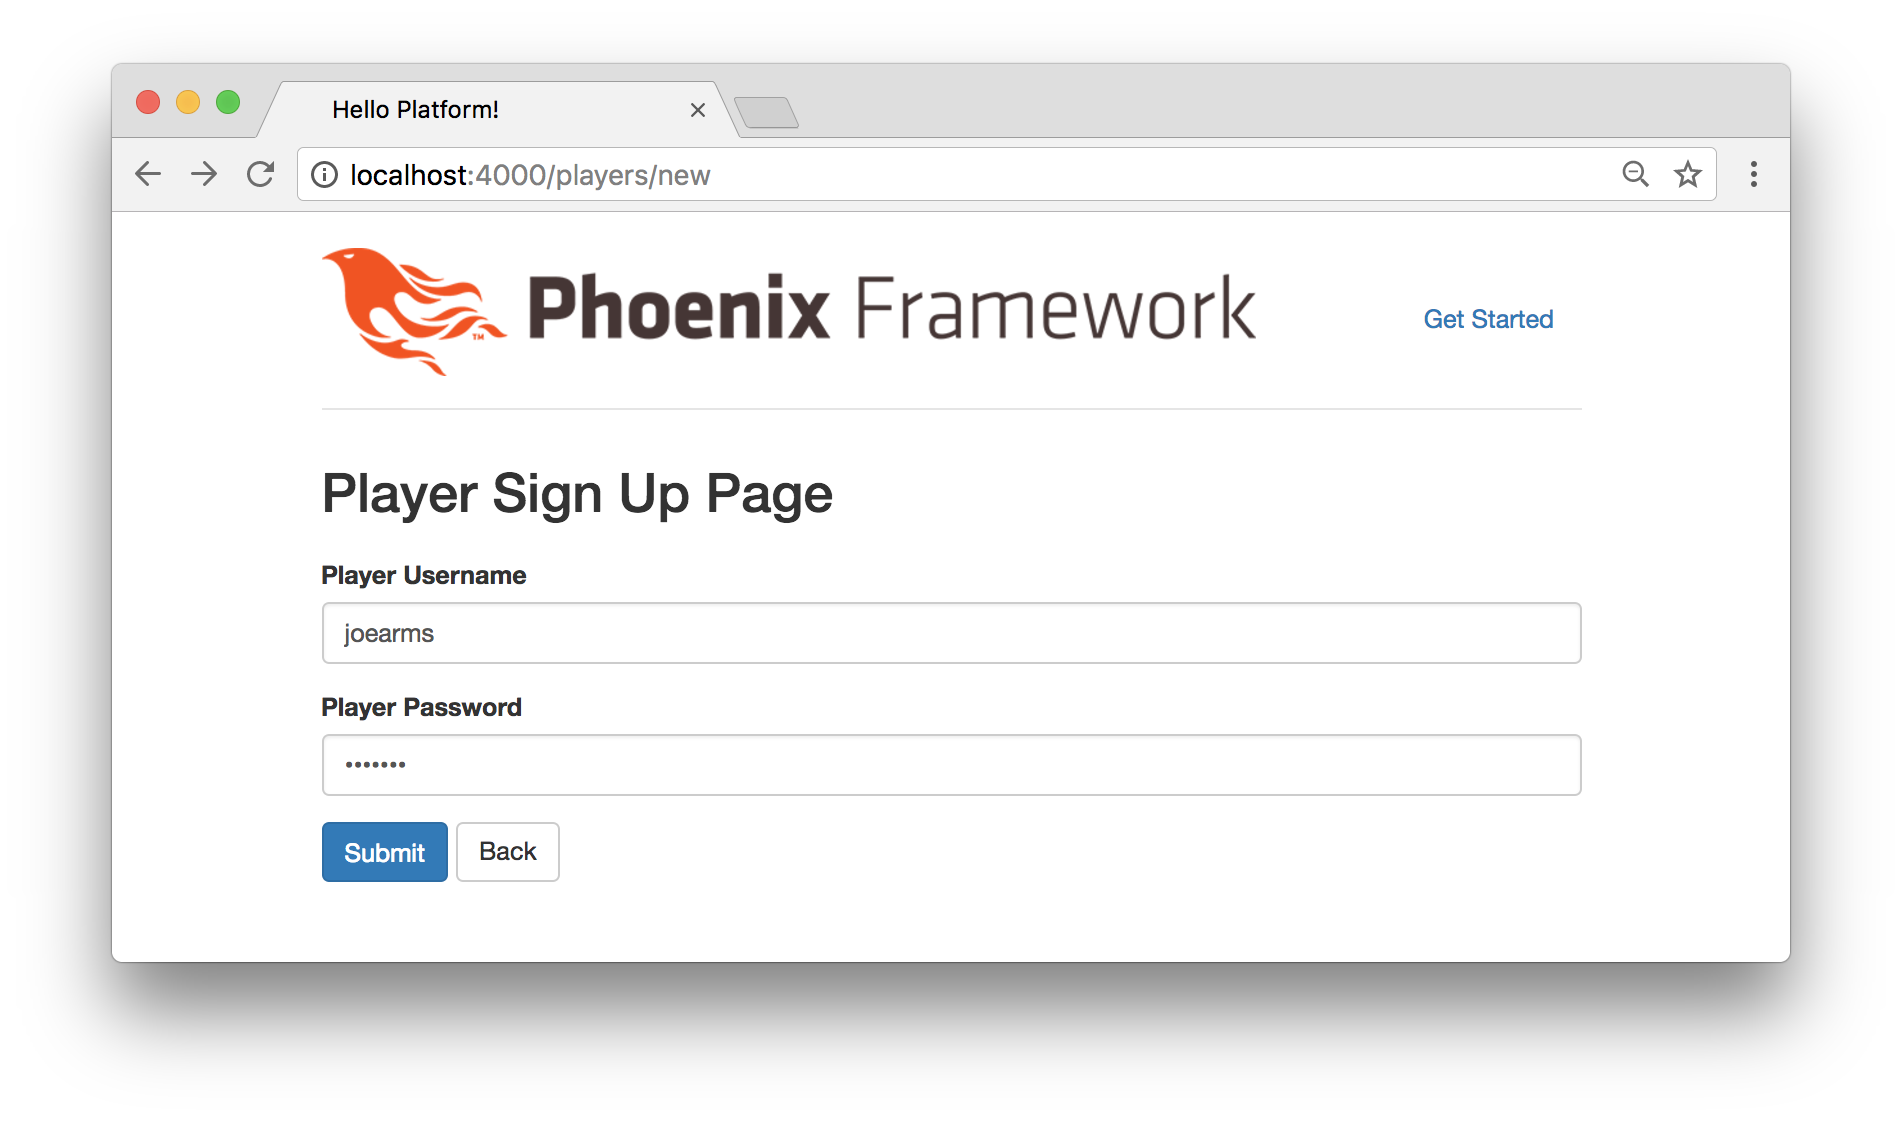
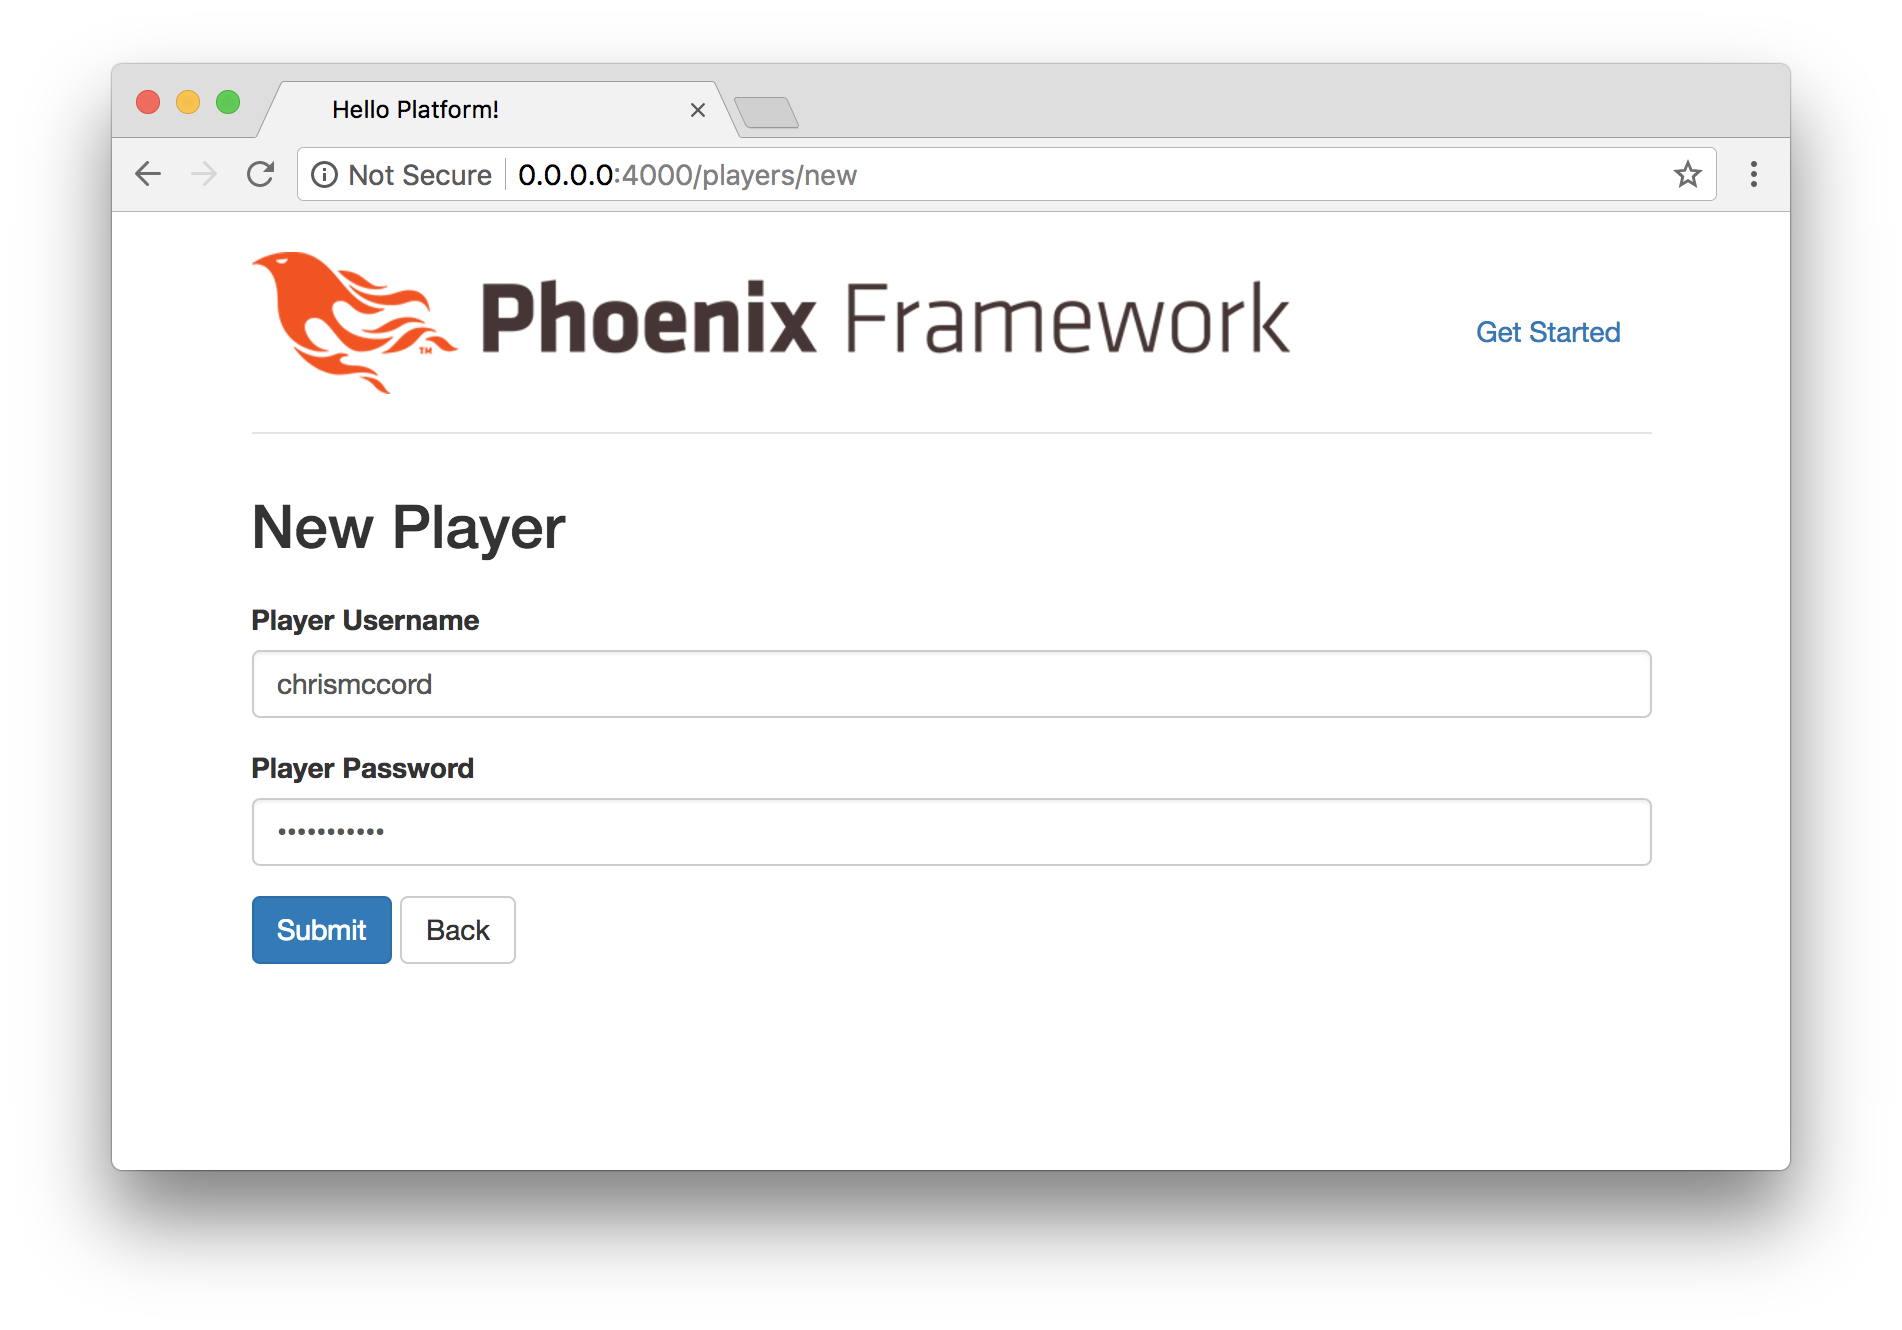
Writing player auth content, updating examples

diff --git a/manuscript/phoenix_authentication.md b/manuscript/phoenix_authentication.md
@@ -393,19 +393,19 @@ the amount of time our tests took to run (from 4.4 seconds to 0.2 seconds).
 
 Players are currently able to create new accounts at
 `http://0.0.0.0:4000/players/new`. But we'll want to add features so that users
-can log in and log out.
+can sign in and sign out.
 
 ![Player Sign Up Page](images/phoenix_sign_up/phoenix_updated_sign_up.png)
 
 Let's make a new controller called `PlayerAuthController`. Create a
-`lib/platform/web/controllers/player_auth_controller.ex` file, and add the
+`lib/platform_web/controllers/player_auth_controller.ex` file, and add the
 following content:
 
 ```elixir
-defmodule Platform.Web.PlayerAuthController do
+defmodule PlatformWeb.PlayerAuthController do
   import Plug.Conn
 
-  alias Platform.Accounts
+  alias Platform.Accounts.Player
 
   def init(opts) do
     Keyword.fetch!(opts, :repo)
@@ -413,26 +413,26 @@ defmodule Platform.Web.PlayerAuthController do
 
   def call(conn, repo) do
     player_id = get_session(conn, :player_id)
-    player = player_id && repo.get(Accounts.Player, player_id)
+    player = player_id && repo.get(Player, player_id)
     assign(conn, :current_user, player)
   end
 end
 ```
 
-This will allow us to collect information about the player's session, and
-assign it to `:current_user` so we can refer to that when handling our
+This will allow us to collect information about the current player's session
+and assign it to `:current_user` so we can refer to that when handling our
 authentication features.
 
 ## Router
 
 Remembering back to when we set up our `PlayerController` in the Phoenix
 router, we used the default browser pipeline. If we open the
-`lib/platform/web/router.ex` file, we'll see that there are quite a few
+`lib/platform_web/router.ex` file, we'll see that there are quite a few
 `plug`s at the top:
 
 ```elixir
-defmodule Platform.Web.Router do
-  use Platform.Web, :router
+defmodule PlatformWeb.Router do
+  use PlatformWeb, :router
 
   pipeline :browser do
     plug :accepts, ["html"]
@@ -446,19 +446,12 @@ defmodule Platform.Web.Router do
     plug :accepts, ["json"]
   end
 
-  scope "/", Platform.Web do
-    pipe_through :browser # Use the default browser stack
-
-    get "/", PageController, :index
-    resources "/players", PlayerController
-  end
-
   # ...
 end
 ```
 
-At the bottom of the `pipeline :browser` block, add our new authentication
-plug:
+At the bottom of the `pipeline :browser` block, let's add our new
+authentication plug:
 
 ```elixir
 pipeline :browser do
@@ -467,51 +460,32 @@ pipeline :browser do
   plug :fetch_flash
   plug :protect_from_forgery
   plug :put_secure_browser_headers
-  plug Platform.Web.PlayerAuthController, repo: Platform.Repo
+  plug PlatformWeb.PlayerAuthController, repo: Platform.Repo
 end
 ```
 
-This plug is going to allow us to restrict access to certain pages. Originally,
-users were being taken to our index page from the `PageController` when they
-accessed the default route (`/`). But we're going to turn that page into our
-Elm front-end application, and we'll require users to log in before they
-access it.
+This plug is going to allow us to restrict access to certain pages. Let's
+update our application so users will be redirected to the **New Player** page
+at `http://0.0.0.0:4000/players/new` if they haven't already signed in.
 
-For now, let's direct users to the **Player Sign Up Page** at `/players/new`
-when they access the default route, and we'll restrict access to the
-`PageController` index page, which we'll call `/elm` for now.
+Currently, when we access `http://0.0.0.0:4000` in the browser, we see the
+index page from our `PageController`. In the upcoming chapters, we'll be
+turning this into our Elm front-end application.
 
-Here are the updates we'll need to make to our browser scope:
+![Home Page](images/diving_in/updated_home_page.png)
 
-```elixir
-scope "/", Platform.Web do
-  pipe_through :browser
-
-  get "/", PlayerController, :new
-  get "/elm", PageController, :index
-  resources "/players", PlayerController
-end
-```
-
-When we access `http://0.0.0.0:4000` now, we'll see the
-**Player Sign Up Page**.
-
-![Player Sign Up Page at Default Route](images/phoenix_authentication/new_default_route.png)
-
-And we can access `http://0.0.0.0:4000/elm` to see our original home page,
-which we'll later turn into our Elm front-end application.
-
-![Original Home Page at /elm Route](images/phoenix_authentication/new_elm_route.png)
+We're going to use our new `PlayerAuthController` to redirect users to the
+**New Player** page before they can view our home page.
 
 ## Authenticate Function
 
 Currently, users are able to navigate to all the pages within our application.
-We want to ensure that players are logged in before they access our Elm
+We want to ensure that players are signed in before they access our Elm
 application and start playing games.
 
 At the bottom of our `PageController`, let's add an `authenticate/2`
-function. Open up the `lib/platform/web/controllers/page_controller.ex` file
-and add the following at the bottom (beneath the `index/2` function):
+function. Open up the `lib/platform_web/controllers/page_controller.ex` file
+and add the following beneath the `index/2` function:
 
 ```elixir
 defp authenticate(conn, _opts) do
@@ -519,7 +493,7 @@ defp authenticate(conn, _opts) do
     conn
   else
     conn
-    |> put_flash(:error, "You must be logged in to access that page.")
+    |> put_flash(:error, "You must be signed in to access that page.")
     |> redirect(to: player_path(conn, :new))
     |> halt()
   end
@@ -530,8 +504,8 @@ Since we assigned the current player's session to be the `current_user` inside
 our `PlayerAuthController`, we can use that to determine whether a visitor to
 our site is signed in. If they are, we'll just return the connection and allow
 them to continue, otherwise if they're attempting to access a restricted
-resource, we'll display a message and redirect them back to the
-**New Player Page**.
+resource, we'll display a message and redirect them back to the **New Player**
+page.
 
 In the same file, we'll use the `authenticate/2` function that we just created
 to determine whether or not players should be able to render the
@@ -546,61 +520,44 @@ plug :authenticate when action in [:index]
 ## Manual Testing
 
 If you're wondering if the updates above broke our tests, you're right. We
-usually run our test suite with `mix test`, but this time let's fire up our
-Phoenix server and manually test things out in the browser.
-
-Start up the Phoenix server with `mix phx.server` and try going to the
-`PageController` index page at `http://0.0.0.0:4000/elm`:
+usually run our test suite with `mix test`, but this time let's manually test
+things out in the browser. Open up your browser and try visiting the
+`PageController` index page at `http://0.0.0.0:4000`:
 
 ![Restricted Page Alert](images/phoenix_authentication/restricted_page.png)
 
-This is great, it redirects us back to the **Player Sign Up Page** because we
-managed to restrict access to the `/elm` page. And we see the flash alert that
-we wrote in the `authenticate/2` function at the bottom of the
-`PageController`:
+It looks like our changes worked, because the application redirected us back to
+the **New Player** page. We managed to restrict access to index page, and we
+see the flash alert ("You must be signed in to access that page.") that we
+wrote in the `authenticate/2` function at the bottom of the `PageController`.
 
-> You must be logged in to access that page.
+## Fixing Our Tests
 
-## Fixing the Build
-
-Let's push a quick and dirty fix for our tests. If we push our new features
-as-is, they'll break the CI build. We could take this as an opportunity to
-write more in-depth tests for our application, but for now we're still
-figuring out where we want to put everything. We won't go too deep into writing
-tests yet, but we still want to ensure that our application is always
-functioning, and keeping our CI build green is a great way to do that.
-
-Open the `test/web/controllers/page_controller_test.exs` file and replace it
+Let's push a quick fix for our tests. Open the `test/platform_web/controllers/page_controller_test.exs` file and replace it
 with the following code that tests our default route and the redirect that
 we created:
 
 ```elixir
-defmodule Platform.Web.PageControllerTest do
-  use Platform.Web.ConnCase
+defmodule PlatformWeb.PageControllerTest do
+  use PlatformWeb.ConnCase
 
-  test "GET /", %{conn: conn} do
+  test "redirects unauthenticated users away from index page", %{conn: conn} do
     conn = get conn, "/"
-    assert html_response(conn, 200) =~ "Player Sign Up"
-  end
-
-  test "redirects unauthenticated users for index page", %{conn: conn} do
-    conn = get conn, page_path(conn, :index)
     assert html_response(conn, 302) =~ "redirect"
   end
 end
 ```
 
-Go ahead and run the `mix test` command again and we should be all set with
-passing tests that give us confidence to keep adding features and moving
-forward.
+Go ahead and run the `mix test` command again, and we should be all set with
+passing tests that give us confidence to keep adding features.
 
-## Logging In
+## Signing In
 
-So how can we allow users to log in to their newly created accounts? Let's
-define a `login/2` function in our `PlayerAuthController`:
+How do we allow users to sign in to their newly created accounts? Let's define
+a `signin/2` function in our `PlayerAuthController`:
 
 ```elixir
-def login(conn, player) do
+def sign_in(conn, player) do
   conn
   |> assign(:current_user, player)
   |> put_session(:player_id, player.id)
@@ -608,17 +565,18 @@ def login(conn, player) do
 end
 ```
 
-Right after a new player creates an account, we automatically want to log them
-into the system. So let's update the `create/2` function in our
-`PlayerController`. We'll use the pipe operator to log the player in before we
-display the flash message and redirect them:
+Right after a new player creates an account, we automatically want to use the
+`sign_in/2` function to authenticate them on our platform. To accomplish this,
+we'll need to update the `create/2` function in our `PlayerController`. We'll
+use the pipe operator to sign the player in before we display the flash message
+and redirect them:
 
 ```elixir
 def create(conn, %{"player" => player_params}) do
   case Accounts.create_player(player_params) do
     {:ok, player} ->
       conn
-      |> Platform.Web.PlayerAuthController.login(player)
+      |> PlatformWeb.PlayerAuthController.sign_in(player)
       |> put_flash(:info, "Player created successfully.")
       |> redirect(to: player_path(conn, :show, player))
     {:error, %Ecto.Changeset{} = changeset} ->
@@ -627,16 +585,21 @@ def create(conn, %{"player" => player_params}) do
 end
 ```
 
-Let's try it out. Go to the `http://0.0.0.0:4000/players/new` page and create a
-new user with both the `username` and `password` fields set to `joearms`:
+Let's try it out. Go to the **New Player** page at
+`http://0.0.0.0:4000/players/new` and create a new user with both the
+`username` and `password` fields set to `chrismccord`:
 
 ![Creating a New User](images/phoenix_authentication/new_user_to_sign_in.png)
 
-So far so good. The new user we just created should be logged in. Let's try to
-access the `PageController` index page to verify. Go to the
-`http://0.0.0.0:4000/elm` page in your browser:
+The new user we just created should now be signed in, and we'll be directed to
+the **Show Player** page for the new user.
 
-![Logged In Access to Players Index](images/phoenix_authentication/new_elm_route.png)
+![Show Player Page](images/phoenix_authentication/show_player_page_after_sign_in.png)
+
+Now, let's try to access the `PageController` index page to verify that the
+user is authenticated. Go to the `http://0.0.0.0:4000` page in your browser:
+
+![Signed In Access to Index Page](images/diving_in/updated_home_page.png)
 
 Success! We're able to access this page because we created a new account and
 authenticated the new player at the same time.
